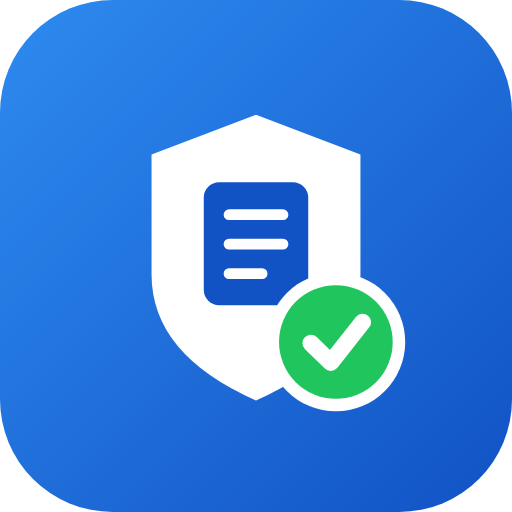
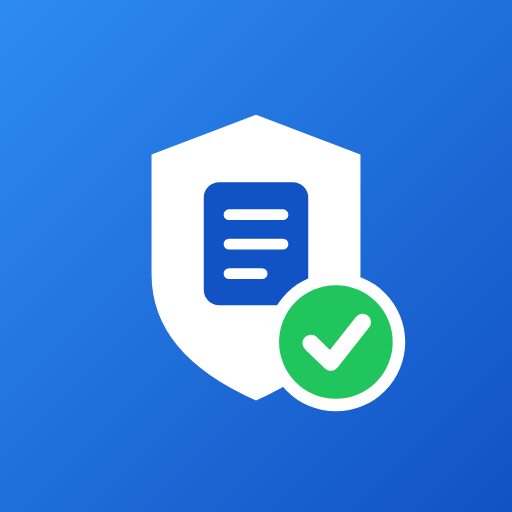
Generate the store listing's artwork, and stop a tool row truncating
Two of the things the listing needs were going to be blockers with nothing in
the repo to meet them, so they are generated from the same mark as the icons
rather than left as homework:

- The 512x512 store icon was rendered in the launcher's rounded-tile mode,
  with transparent corners. Play applies its own mask, so a rounded tile gets
  rounded twice. It is now a full-bleed square.
- A 1024x500 feature graphic, which a listing cannot publish without. It is
  measured and scaled to fit rather than positioned by hand, because the font
  it falls back to depends on the machine that runs the script.
- Five 1080x1920 phone screenshots, captured from the real app at a real phone
  size by driving it the way the e2e suite does, including a signature
  prepared to SSC's 140x60 spec rather than a mocked-up screen.

Capturing the home screen is what showed the Signature Maker row reading
"Prepare form signatu..." — the only tool row carrying a spec chip, so the only
one short of width, truncating mid-word with empty space directly below it.
The description wraps now.

store-assets/README.md carries the listing text: the 28-character store name,
the short and full descriptions, and the privacy policy URL that resolves once
Pages is enabled. The launcher label stays "FormReady" because Android
truncates long labels under an icon; they are separate fields.

Claude-Session: https://claude.ai/code/session_01TtypssgSryY1bW3LwAZzH7

diff --git a/src/components/ToolCard.tsx b/src/components/ToolCard.tsx
@@ -16,7 +16,12 @@ export function ToolCard({ tool }: { tool: ToolDef }) {
       </span>
       <span className="min-w-0 flex-1">
         <span className="block truncate text-[15px] font-bold tracking-tight text-[var(--ink)]">{tool.name}</span>
-        <span className="block truncate text-xs text-[var(--ink-2)]">{tool.description}</span>
+        {/*
+          Wraps rather than truncating. A row carrying a spec chip has less
+          room than one without, and Signature Maker's line was cut mid-word
+          to "Prepare form signatu…" while the space below it sat empty.
+        */}
+        <span className="block text-xs leading-snug text-[var(--ink-2)]">{tool.description}</span>
       </span>
       {tool.spec && <SpecChip icon={false}>{tool.spec}</SpecChip>}
       <ChevronRightIcon width={17} height={17} className="shrink-0 text-[var(--ink-3)]" />

diff --git a/store-assets/README.md b/store-assets/README.md
@@ -1,0 +1,65 @@
+# Play Store listing material
+
+Everything in this folder is generated, so it can be regenerated rather than
+edited by hand:
+
+    node scripts/make-icons.mjs             # icon-512.png, feature-graphic-1024x500.png
+    npm run build && npx vite preview --port 4173 &
+    node scripts/make-store-screenshots.mjs # screenshots/
+
+| File | Where it goes | Play's requirement |
+| --- | --- | --- |
+| `icon-512.png` | Store listing → App icon | 512×512 PNG, full-bleed square. Play applies its own rounded mask, so this one is deliberately not rounded. |
+| `feature-graphic-1024x500.png` | Store listing → Feature graphic | 1024×500, no transparency. |
+| `screenshots/*.png` | Store listing → Phone screenshots | 1080×1920 each. Play wants at least two; there are five. |
+
+## Listing text
+
+**App name** (30 characters maximum — this is 28):
+
+    FormReady: Exam Photo & Sign
+
+The launcher label stays the shorter `FormReady`, because Android truncates
+long labels under the icon. The two are separate fields and are allowed to
+differ.
+
+**Short description** (80 characters maximum):
+
+    Exam photos, signatures and PDFs at the exact size the form asks for.
+
+**Full description**:
+
+    Applying for SSC, UPSC, IBPS or a state exam? Every form wants a photo and
+    a signature at an exact pixel size and under an exact file size, and a
+    rejected upload can cost you the application.
+
+    FormReady makes files that fit, on your own phone.
+
+    PICK YOUR EXAM
+    Choose SSC CGL, UPSC CSE, IBPS PO, RRB NTPC, DSSSB or another listed exam
+    and every document opens already set to the size that exam asks for. You
+    can check and edit any number before the file is made — exam notifications
+    change, and yours is the one that counts.
+
+    PHOTOS
+    Crop to the exact pixel size, land inside the size range, and see the
+    requirement confirmed before you upload.
+
+    SIGNATURES
+    Photograph a signature or sign on the screen with a finger. FormReady
+    trims the paper away, keeps the ink black where the form requires it, and
+    hits both the size floor and the size ceiling.
+
+    PDFs
+    Compress a document to fit a stated limit while keeping it as sharp as
+    that limit allows, merge several files into one, or split one into pages.
+
+    NOTHING LEAVES YOUR PHONE
+    FormReady has no servers and does not request internet permission, so it
+    cannot send your files anywhere even if it wanted to. No account, no
+    sign-in, no analytics, no advertising. Everything happens on your device,
+    and it all works with the phone offline.
+
+**Privacy policy URL** — after enabling GitHub Pages for the `docs/` folder:
+
+    https://kush256.github.io/FormReady/privacy-policy.html
